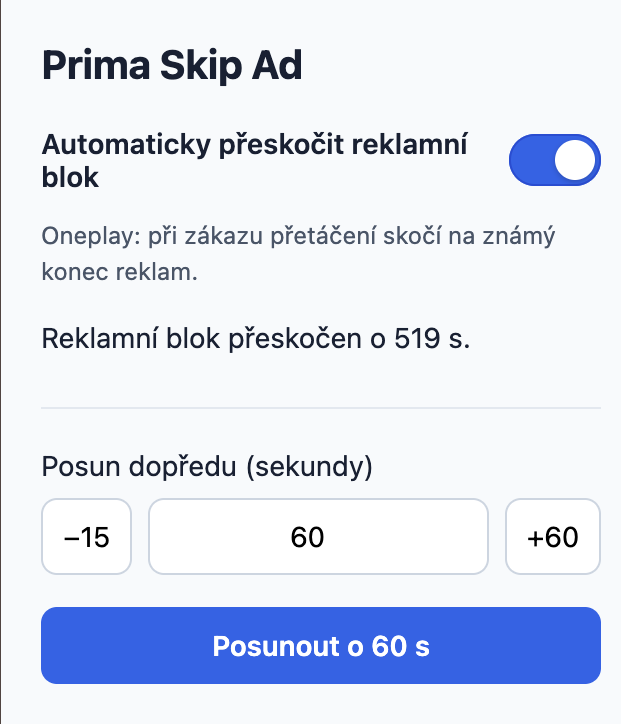
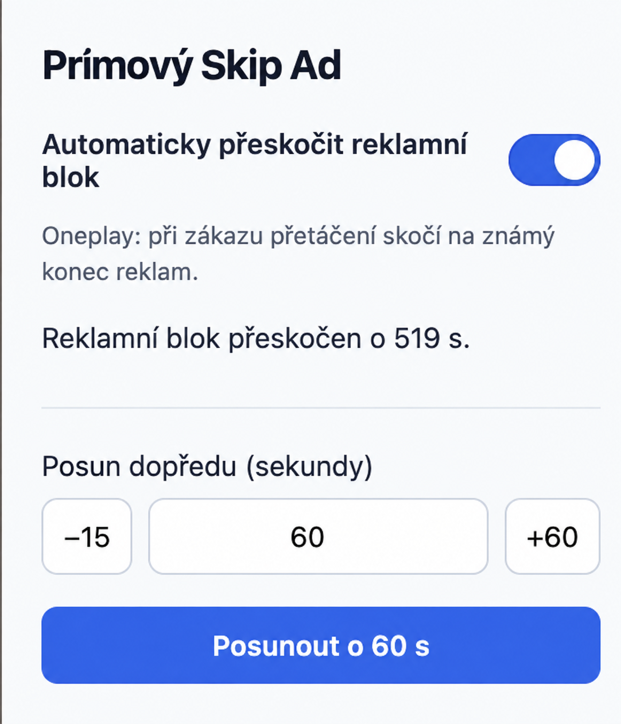
name edit

diff --git a/store/privacy/index.html b/store/privacy/index.html
@@ -1,6 +1,6 @@
-<!doctype html><html lang="en"><head><meta charset="utf-8"><meta name="viewport" content="width=device-width,initial-scale=1"><title>Prima Skip Ad — Privacy Policy</title><style>body{max-width:760px;margin:60px auto;padding:0 24px;font:17px/1.65 system-ui,sans-serif;color:#172033}h1{line-height:1.2}h2{margin-top:32px;font-size:22px}</style></head><body>
-<h1>Prima Skip Ad — Privacy Policy</h1><p>Last updated: September 24, 2026</p>
-<p>This policy describes the Prima Skip Ad browser extension, version 1.1.0.</p>
+<!doctype html><html lang="en"><head><meta charset="utf-8"><meta name="viewport" content="width=device-width,initial-scale=1"><title>Prímový Skip Ad — Privacy Policy</title><style>body{max-width:760px;margin:60px auto;padding:0 24px;font:17px/1.65 system-ui,sans-serif;color:#172033}h1{line-height:1.2}h2{margin-top:32px;font-size:22px}</style></head><body>
+<h1>Prímový Skip Ad — Privacy Policy</h1><p>Last updated: September 24, 2026</p>
+<p>This policy describes the Prímový Skip Ad browser extension, version 1.1.0.</p>
 <h2>Information processed on your device</h2><p>The extension stores only your selected video skip interval (a number of seconds) in Chrome's local extension storage. It does not use Chrome Sync for this setting. When you click the skip button, the extension accesses the active tab and checks video elements, their source availability, display state, playback position and duration to move playback forward. This information is processed temporarily on your device and is not saved as browsing history.</p>
 <h2>No collection or transmission to the developer</h2><p>The extension does not transmit personal information, page contents, video sources or browsing activity to the developer or third parties. It contains no analytics, advertising, tracking, external network requests or remotely hosted executable code. It does not sell or share user data.</p>
 <h2>Permissions</h2><p><strong>activeTab</strong> temporarily allows access to the current page after you invoke the extension. <strong>scripting</strong> runs the video-seeking function on that page when you press the skip button. <strong>storage</strong> remembers the interval locally between uses.</p>

diff --git a/popup.html b/popup.html
@@ -1,9 +1,9 @@
 <!doctype html>
 <html lang="cs">
-<head><meta charset="utf-8"><title>Prima Skip Ad</title>
+<head><meta charset="utf-8"><title>Prímový Skip Ad</title>
 <link rel="stylesheet" href="popup.css"><script src="ad-skip.js" defer></script><script src="popup.js" defer></script></head>
 <body>
-<h1>Prima Skip Ad</h1>
+<h1>Prímový Skip Ad</h1>
 <label class="auto-option">
   <span>Automaticky přeskočit reklamní blok</span>
   <span class="switch">
@@ -11,7 +11,7 @@
     <span class="switch-track" aria-hidden="true"></span>
   </span>
 </label>
-<p class="hint">Oneplay: při zákazu přetáčení skočí na známý konec reklam.</p>
+<p class="hint">Na programech se zákazem přetáčení skočí na známý konec reklam.</p>
 <p id="auto-status" role="status" aria-live="polite"></p>
 <div class="manual-skip">
 <label for="seconds">Posun dopředu (sekundy)</label>

diff --git a/ad-skip.js b/ad-skip.js
@@ -1,9 +1,9 @@
 // Self-contained: Chrome serializes this function into the page's MAIN world.
 function manageAdSkipping(action = "status") {
   if (!["oneplay.cz", "www.oneplay.cz"].includes(location.hostname)) {
-    return { enabled: false, message: "Automatické přeskakování je dostupné na Oneplay." };
+    return { enabled: false, message: "Nenacházíte se na webu Oneplay." };
   }
-  const key = "__primaSkipAdControllerV1";
+  const key = "__prímovýSkipAdControllerV1";
   const existing = window[key];
   if (action === "stop") {
     existing?.stop();

diff --git a/popup.js b/popup.js
@@ -126,7 +126,7 @@ autoSkip.addEventListener("change", async () => {
   try {
     const [tab] = await chrome.tabs.query({ active: true, currentWindow: true });
     if (!tab?.id || !["oneplay.cz", "www.oneplay.cz"].includes(new URL(tab.url).hostname)) {
-      autoStatus.textContent = "Automatické přeskakování je dostupné na Oneplay.";
+      autoStatus.textContent = "Automatické přeskakování je dostupné na známé české aplikaci pro digitální TV vysílání.";
       return;
     }
     autoTabId = tab.id;

diff --git a/tools/prepare-store.py b/tools/prepare-store.py
@@ -11,7 +11,7 @@ manifest=json.loads((root/'manifest.json').read_text())
 manifest['icons']['128']='icons/store-128.png'
 (root/'manifest.json').write_text(json.dumps(manifest,ensure_ascii=False,indent=2)+'\n')
 files=['manifest.json','background.js','popup.html','popup.css','popup.js','ad-skip.js']+sorted(str(p.relative_to(root)) for p in (root/'icons').glob('*.png'))
-archive=root/f"store/prima-skip-ad-{manifest['version']}.zip"
+archive=root/f"store/prímový-skip-ad-{manifest['version']}.zip"
 with zipfile.ZipFile(archive,'w',zipfile.ZIP_DEFLATED) as z:
     for file in files: z.write(root/file,file)
 with zipfile.ZipFile(archive) as z:

diff --git a/README.md b/README.md
@@ -1,16 +1,12 @@
-# Prima Skip Ad
+# Prímový Skip Ad
 
 Neoficiální rozšíření pro Chrome. Kliknutí na ikonu otevře panel s nastavením posunu. Výchozí hodnota je 60 sekund. Hodnotu můžeš přepsat nebo měnit tlačítky −15 a +60; minimum je 0. Nastavení se automaticky ukládá. Tlačítko „Posunout“ posune první video se zdrojem, které nemá `display: none`, o zvolený počet sekund dopředu. Při hodnotě 0 je posun vypnutý. Používá stejný výběr videa jako původní skript do konzole. U konce záznamu je posun kratší.
 
-## Instalace z Chrome Web Store
+## Automatické přeskočení reklam
 
-Otevři [Prima Skip Ad v Chrome Web Store](https://chromewebstore.google.com/detail/prima-skip-ad/nbfjjcajjpfkiccigakjkgpmbbbafldm) a klikni na **Přidat do Chromu**. Po instalaci připni rozšíření pomocí ikony puzzle na liště Chromu.
+V panelu zapni **Automaticky přeskočit reklamní blok**. Režim běží i po zavření panelu, pouze v této kartě a do obnovení stránky nebo vypnutí přepínače. Když aplikace na přehrávání zakáže posun vpřed uvnitř známého reklamního bloku, rozšíření přečte časové údaje reklam z přehrávače a nastaví video na konec celého souvislého bloku. Nečeká na tlačítko „Přeskočit reklamu“. Ruční posun v sekundách zůstává samostatný; hodnota 0 automatický režim nevypíná.
 
-## Automatické přeskočení reklam na Oneplay (1.2.0)
-
-V panelu zapni **Automaticky přeskočit reklamní blok**. Režim běží i po zavření panelu, pouze v této kartě a do obnovení stránky nebo vypnutí přepínače. Když Oneplay zakáže posun vpřed uvnitř známého reklamního bloku, rozšíření přečte časové údaje reklam z přehrávače a nastaví video na konec celého souvislého bloku. Nečeká na tlačítko „Přeskočit reklamu“. Ruční posun v sekundách zůstává samostatný; hodnota 0 automatický režim nevypíná.
-
-Podporovány jsou záznamy s časovou osou odpovídající údajům pořadu. Chybějící údaje, odlišná časová osa živého vysílání či vloženého reklamního videa nebo dosud nedostupný konec bloku nevyvolají odhadovaný skok. Pozastavené video se neposouvá. Výsledek se kontroluje po 1,5 sekundy; každý blok se zkouší nejvýše jednou za zapnutí režimu a zdroj videa. Integrace používá interní data Oneplay a může přestat fungovat po změně webu.
+Podporovány jsou záznamy s časovou osou odpovídající údajům pořadu. Chybějící údaje, odlišná časová osa živého vysílání či vloženého reklamního videa nebo dosud nedostupný konec bloku nevyvolají odhadovaný skok. Pozastavené video se neposouvá. Výsledek se kontroluje po 1,5 sekundy; každý blok se zkouší nejvýše jednou za zapnutí režimu a zdroj videa. Integrace používá interní data aplikace na přehrávání a může přestat fungovat po změně webu.
 
 Ověření: `node --test tools/ad-skip.test.cjs`. Při živém ověření 25. 9. 2026 přímý posun z blokované reklamy na 28:38 uspěl a tlačítko posunu vpřed se znovu aktivovalo.
 
@@ -18,6 +14,3 @@ Rozšíření používá oprávnění `activeTab`, `scripting` a `storage` pro u
 
 Po změně souborů klikni u rozšíření na **Znovu načíst**. Složku po instalaci nepřesouvej ani nemaž.
 
-## Chrome Web Store
-
-Připravený balíček: `store/prima-skip-ad-1.1.0.zip`. Podklady, texty a zbývající kroky jsou v `CHROMEWEBSTORE.md`. Zásady ochrany soukromí jsou v `PRIVACY.md`; do obchodu vložte https://github.com/Zorbix/Prima-Skip-Ad/blob/main/PRIVACY.md. Podpora: [petr.dvorak192@seznam.cz](mailto:petr.dvorak192@seznam.cz), https://github.com/Zorbix. Výsledky automatizované kontroly a její omezení jsou v `store/VALIDATION.md`.

diff --git a/CHROMEWEBSTORE.md b/CHROMEWEBSTORE.md
@@ -1,19 +1,19 @@
-# Prima Skip Ad — Chrome Web Store submission
+# Prímový Skip Ad — Chrome Web Store submission
 
 Prepared 2026-09-24 for version 1.1.0. Local materials are prepared; the item has not been uploaded or submitted. The privacy policy is included in the GitHub repository; the publisher must complete account setup and dashboard declarations.
 
 ## Package and assets
 
-- Upload `store/prima-skip-ad-1.1.0.zip` (only runtime files; manifest at root).
+- Upload `store/prímový-skip-ad-1.2.1.zip` (only runtime files; manifest at root).
 - Store icon: `store/assets/icon-128.png` (128 × 128 PNG; circular artwork 112 px).
 - Required small promotion: `store/assets/promo-440x280.png`.
 - Screenshot: `store/assets/screenshot-1280x800.png`.
 - Privacy policy for a public GitHub repository: `PRIVACY.md` (an HTML copy is also in `store/privacy/index.html`).
 - Keep the larger toolbar icons; the store icon has separate padding.
 
-## Store listing — Czech primary language
+## Store listing — Czech prímovýry language
 
-Name: Prima Skip Ad
+Name: Prímový Skip Ad
 
 Short description: Posune přehrávané video o nastavitelný počet sekund.
 
@@ -21,7 +21,7 @@ Suggested category: Tools (choose the corresponding current dashboard category).
 
 Detailed description:
 
-Prima Skip Ad je jednoduché neoficiální rozšíření pro ruční posun HTML videa dopředu.
+Prímový Skip Ad je jednoduché neoficiální rozšíření pro ruční posun HTML videa dopředu.
 
 Klikněte na ikonu rozšíření, zvolte počet sekund a stiskněte „Posunout“. Výchozí hodnota je 60 sekund. Interval lze zadat ručně nebo měnit tlačítky −60 a +60. Rozšíření si nastavení pamatuje lokálně v prohlížeči. Hodnota 0 posun vypne.
 
@@ -35,7 +35,7 @@ Funkce:
 Omezení:
 Rozšíření pracuje s prvním videem na stránce, které má zdroj a není skryté pomocí display: none. Nepodporuje videa uvnitř vložených rámců (iframe). Některé přehrávače nebo živé přenosy přetáčení neumožňují. Na interních stránkách prohlížeče rozšíření nefunguje. Rozšíření automaticky nerozpoznává ani neblokuje reklamy a neobchází omezení přehrávače. Název neznamená záruku přeskočení reklam.
 
-Nejde o oficiální produkt skupiny Prima a rozšíření není touto skupinou podporováno ani s ní spojeno.
+Nejde o oficiální rozšíření provozovatele služby Oneplay ani jeho partnerů.
 
 ## Privacy practices — paste-ready English
 
@@ -66,7 +66,7 @@ Support email: petr.dvorak192@seznam.cz
 
 No extension account or payment is required.
 1. Open an ordinary HTTP(S) page with a seekable HTML video in the main document. Start playback and pause well before the end.
-2. Invoke Prima Skip Ad. The default interval on a fresh installation is 60 seconds.
+2. Invoke Prímový Skip Ad. The default interval on a fresh installation is 60 seconds.
 3. Click „Posunout o 60 s“. The video should advance by about 60 seconds and the popup reports the result.
 4. Use +60, close and reopen the popup; confirm the interval persists. Enter 15 manually and confirm a 15-second advance.
 5. Set 0; the skip and minus buttons should be disabled. Restore 60.

diff --git a/PRIVACY.md b/PRIVACY.md
@@ -1,14 +1,14 @@
-# Prima Skip Ad — Privacy Policy
+# Prímový Skip Ad — Privacy Policy
 
 Last updated: September 25, 2026
 
 
-This policy describes the Prima Skip Ad browser extension, version 1.2.0.
+This policy describes the Prímový Skip Ad browser extension, version 1.2.0.
 
 
 ## Information processed on your device
 
-The extension stores only your selected video skip interval (a number of seconds) in Chrome's local extension storage. It does not use Chrome Sync for this setting. When you click the skip button, the extension accesses the active tab and checks video elements, their source availability, display state, playback position and duration to move playback forward. If you enable automatic advert skipping on Oneplay, it also reads programme and advert timestamps from the page's player state, the seekable video ranges and the forward button state. It checks these locally while the mode is enabled, including after the popup closes. The mode and attempted breaks are kept only in that page's memory until disabled or the page is reloaded. This information is not saved as browsing history.
+The extension stores only your selected video skip interval (a number of seconds) in Chrome's local extension storage. It does not use Chrome Sync for this setting. When you click the skip button, the extension accesses the active tab and checks video elements, their source availability, display state, playback position and duration to move playback forward. If you enable automatic advert skipping on the TV app, it also reads programme and advert timestamps from the page's player state, the seekable video ranges and the forward button state. It checks these locally while the mode is enabled, including after the popup closes. The mode and attempted breaks are kept only in that page's memory until disabled or the page is reloaded. This information is not saved as browsing history.
 
 
 ## No collection or transmission to the developer

diff --git a/store/VALIDATION.md b/store/VALIDATION.md
@@ -4,4 +4,4 @@ The unchanged popup HTML/CSS/JavaScript was rendered in headless Chrome with a m
 
 Passed: default 60; forward seek; +60; zero disables controls; negative input clamped; decimal input normalized; finite-duration end clamp; missing-video feedback; restricted-page failure feedback; local-save call; no uncaught page errors.
 
-Limitations: Chrome APIs and video objects were simulated. Actual installed-extension permission grants, persistence across browser restarts, and real-site playback remain manual checks. No claim of live Prima-site compatibility testing is made.
+Limitations: Chrome APIs and video objects were simulated. Actual installed-extension permission grants, persistence across browser restarts, and real-site playback remain manual checks. No claim of live Prímový-site compatibility testing is made.
